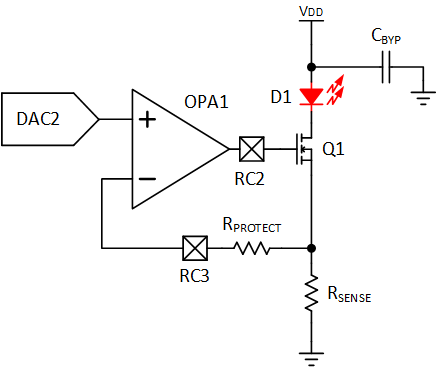
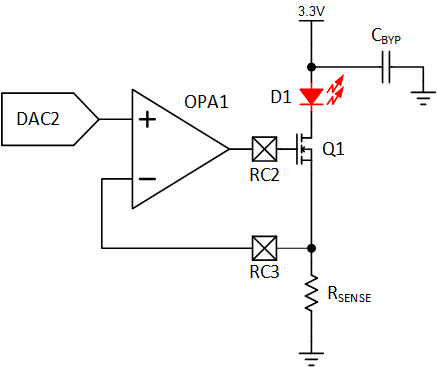
MPAE-14935: Updated HV operation section. Prev. advice caused the formation of a parasitic pole

diff --git a/README.md b/README.md
@@ -44,7 +44,7 @@ Before building or operating this demo, ensure that the parts selected for this 
 ## Wiring
 ![Schematic Diagram](./images/schematic.png)
 
-**Note: VDD can be 3.3V or 5V. However, 5V should be used with a protection resistor, as the nano runs on 3.3V by default.**
+**Note: VDD should be connected to 3.3V**
 
 | Pin | Function
 | --- | --------
@@ -66,7 +66,7 @@ The output current is approximately equal to **Iout = Vdac / 6.8**.
 Due to the MOSFET acting as voltage controlled current sink, there is some short circuit protection built into the circuit. However, it is not recommended to depend on this circuit as the only means of protection. Prolonged short circuits may cause heating of the FET and shunt.
 
 #### Higher Voltage Operation
-It is possible to run the LED supply at a voltage much higher than Vdd. Parts used must be evaluated for power dissipation and operating voltage. In addition, protecting the PIC18F16Q41 from voltages higher than Vdd is critical. A simple resistor from the current sense pin to the Operational Amplifier input provides basic protection, although this has not been tested and characterized. (The protection network must be analyzed with regards to the specific conditions in circuit.)
+It is possible to run the LED supply at a voltage much higher than Vdd. Parts used must be evaluated for power dissipation and operating voltage. In addition, protecting the PIC18F16Q41 from voltages higher than Vdd is critical. 
 
 **Warning: The input to any power or I/O pin on the PIC18F16Q41 must remain within the absolute maximum ratings stated in the device datasheet, otherwise permanent damage may occur.**
 
